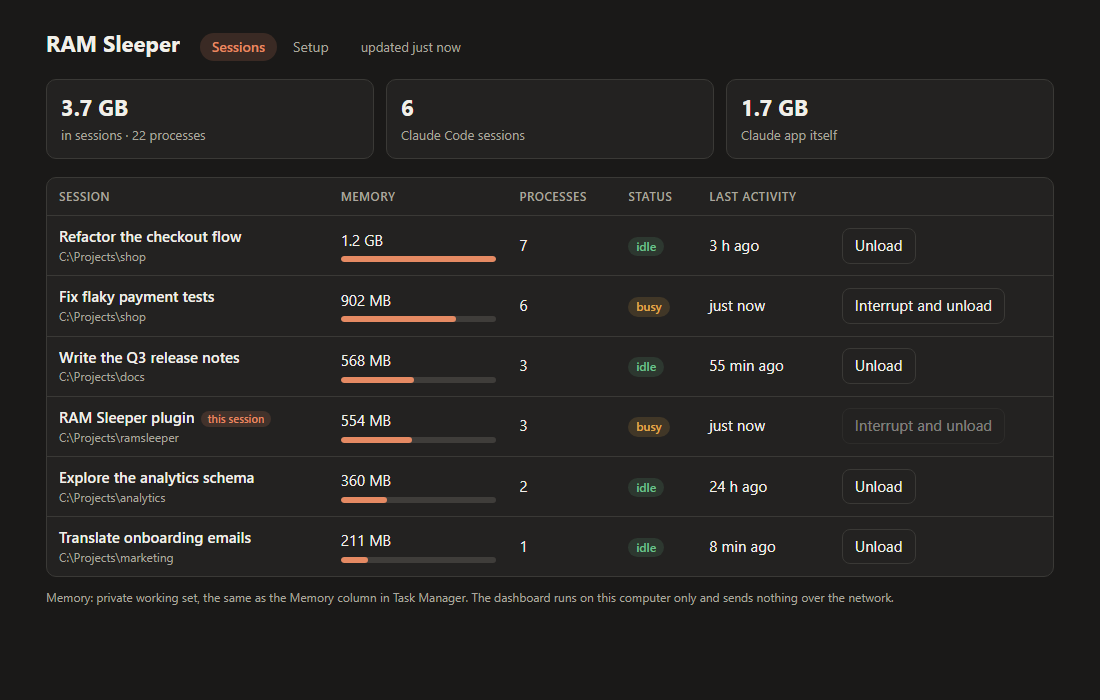
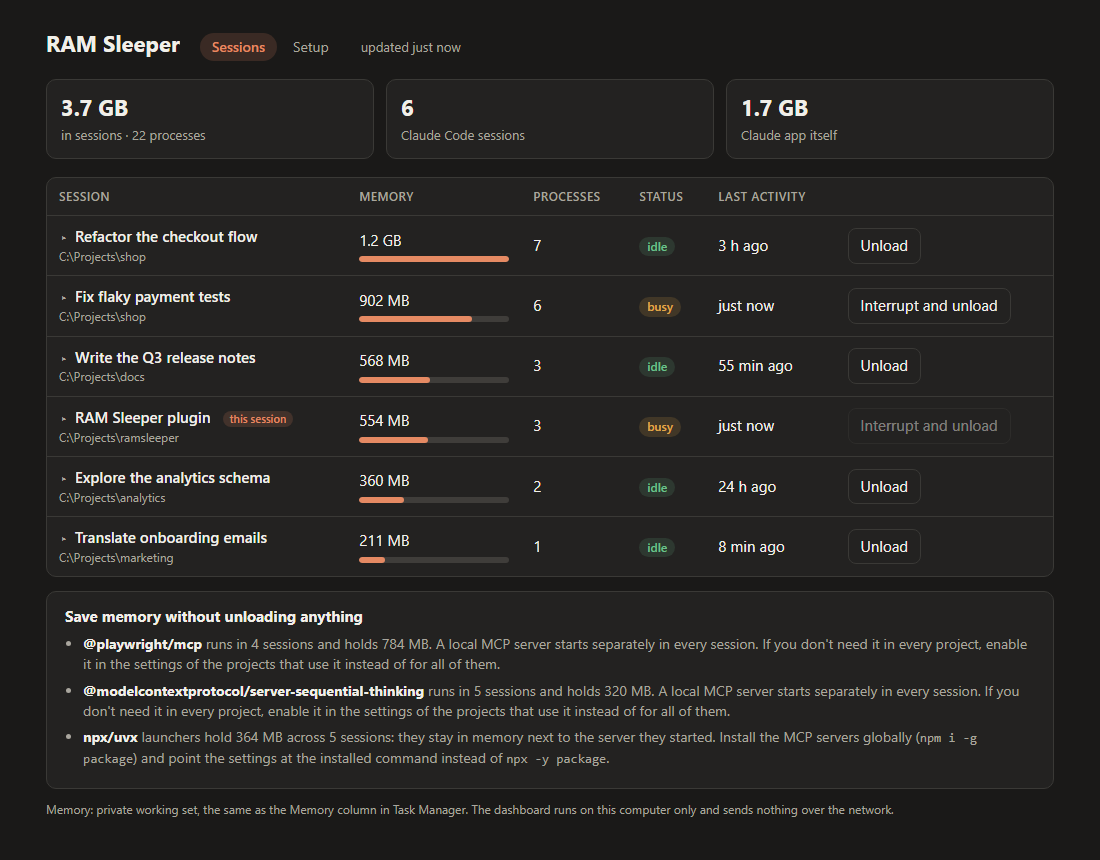
Site: new screenshots, session breakdown section, MCP-per-session FAQ

diff --git a/index.html b/index.html
@@ -15,7 +15,7 @@
 <meta property="og:url" content="https://kejid.github.io/ramsleeper/">
 <meta property="og:image" content="https://kejid.github.io/ramsleeper/img/dashboard-dark.png">
 <meta property="og:image:width" content="1100">
-<meta property="og:image:height" content="700">
+<meta property="og:image:height" content="860">
 <meta property="og:image:alt" content="RAM Sleeper dashboard listing Claude Code sessions with their memory use">
 <meta name="twitter:card" content="summary_large_image">
 <script type="application/ld+json">
@@ -45,6 +45,8 @@
       "acceptedAnswer": { "@type": "Answer", "text": "Every Claude Code session is its own tree of processes: the claude process plus the MCP servers, shells, browsers and dev servers it started. One session often holds 0.3 to 1.3 GB across a dozen or more processes, and idle sessions keep that memory. With several sessions open, for example in the Claude desktop app, it adds up to many gigabytes." } },
     { "@type": "Question", "name": "How do I see how much RAM each Claude Code session uses?",
       "acceptedAnswer": { "@type": "Answer", "text": "Install RAM Sleeper and run /ramsleeper:sessions. It lists every running session with the memory of its whole process tree, its process count, whether it is busy or idle, and when it was last active." } },
+    { "@type": "Question", "name": "Does every Claude Code session start its own MCP servers?",
+      "acceptedAnswer": { "@type": "Answer", "text": "Yes, for local (stdio) MCP servers. Each session starts its own copy of every server enabled for it, so five sessions with a Playwright MCP server run five of them. If a server is needed in only some projects, enabling it in those projects' settings instead of for all projects saves that memory in every other session." } },
     { "@type": "Question", "name": "Do I lose the conversation when a session is unloaded?",
       "acceptedAnswer": { "@type": "Answer", "text": "No. Unloading stops the session's processes only. The transcript stays on disk, and when you open the session and send a message it loads back into memory with the same conversation." } },
     { "@type": "Question", "name": "Does RAM Sleeper fix the Claude Code memory leak?",
@@ -142,7 +144,7 @@
         <span class="note">Free, open source (MIT). Sends nothing over the network.</span>
       </div>
       <div class="shot">
-        <img src="img/dashboard-dark.png" width="1100" height="700" alt="RAM Sleeper dashboard listing six Claude Code sessions with memory bars, process counts, busy or idle status, and Unload buttons">
+        <img src="img/dashboard-dark.png" width="1100" height="860" alt="RAM Sleeper dashboard listing six Claude Code sessions with memory bars, process counts, busy or idle status, Unload buttons, and tips for saving memory">
       </div>
     </section>
 
@@ -161,9 +163,19 @@
       <h2>What RAM Sleeper does</h2>
       <div class="grid">
         <div class="card"><h3>Memory per session</h3><p>Each session's figure covers its whole process tree, with its title, status, and last activity. The desktop app's own share is listed separately.</p></div>
+        <div class="card"><h3>What each session is made of</h3><p>Expand a session to see the <code>claude</code> process and every MCP server or dev server it started, each with its memory.</p></div>
+        <div class="card"><h3>Tips that need no unloading</h3><p>It points out an MCP server that runs in many sessions and the memory held by <code>npx</code> and <code>uvx</code> launchers.</p></div>
         <div class="card"><h3>Unload without losing anything</h3><p>The session is asked to exit on its own, so the desktop app does not report a crash. The transcript stays on disk and the session resumes on your next message.</p></div>
         <div class="card"><h3>Always confirms first</h3><p>You see every process that will stop before anything stops. A dev server or database started from the session is called out separately.</p></div>
         <div class="card"><h3>Stuck sessions too</h3><p>A busy session can be interrupted and unloaded after a separate warning. Everything before the running turn is kept.</p></div>
+      </div>
+    </section>
+
+    <section id="inside">
+      <h2>See what is inside a session</h2>
+      <p class="sub">A local MCP server starts separately in every session, so a server you enabled for all projects costs its memory once per open session. And when a server is started with <code>npx -y package</code>, the launcher stays in memory next to it, about 60 MB each time. RAM Sleeper shows both, per session and in total.</p>
+      <div class="shot" style="margin-top:22px">
+        <img src="img/breakdown-dark.png" width="1100" height="1060" loading="lazy" alt="Dashboard with one session expanded into the claude process, a Playwright MCP server, a Vite dev server and other MCP servers, with a note about memory held by npx launchers and tips below the list">
       </div>
     </section>
 
@@ -175,11 +187,11 @@
           <figcaption><strong>In the chat.</strong> Run <code>/ramsleeper:sessions</code>, or ask "which session uses the most memory?"</figcaption>
         </figure>
         <figure>
-          <img src="img/tray-popup.png" width="640" height="551" loading="lazy" alt="Windows tray popup with the session list, and the tray icon in green, amber, and red">
+          <img src="img/tray-popup.png" width="640" height="812" loading="lazy" alt="Windows tray popup with the session list, one session expanded into its MCP servers, and the tray icon in green, amber, and red">
           <figcaption><strong>Windows tray.</strong> The number is how many sessions are idle. The color is how much of your RAM all sessions hold.</figcaption>
         </figure>
         <figure>
-          <img src="img/unload-confirm-dark.png" width="1100" height="760" loading="lazy" alt="Unload confirmation listing the processes that will stop, with a Vite dev server highlighted">
+          <img src="img/unload-confirm-dark.png" width="1100" height="860" loading="lazy" alt="Unload confirmation listing the processes that will stop, with a Vite dev server highlighted">
           <figcaption><strong>Local dashboard.</strong> <code>/ramsleeper:dashboard</code> opens a live view with a confirmation before each unload.</figcaption>
         </figure>
         <figure>
@@ -224,6 +236,7 @@ claude plugin install ramsleeper@ramsleeper</code></pre>
       <h2>Questions</h2>
       <details><summary>Why does Claude Code use so much memory?</summary><p>Every session is its own tree of processes: the <code>claude</code> process plus the MCP servers, shells, browsers, and dev servers it started. One session often holds 0.3 to 1.3 GB across a dozen or more processes, and idle sessions keep that memory. With several sessions open, for example in the Claude desktop app, it adds up to many gigabytes.</p></details>
       <details><summary>How do I see how much RAM each Claude Code session uses?</summary><p>Install RAM Sleeper and run <code>/ramsleeper:sessions</code>. It lists every running session with the memory of its whole process tree, its process count, whether it is busy or idle, and when it was last active.</p></details>
+      <details><summary>Does every Claude Code session start its own MCP servers?</summary><p>Yes, for local (stdio) MCP servers. Each session starts its own copy of every server enabled for it, so five sessions with a Playwright MCP server run five of them. If a server is needed in only some projects, enabling it in those projects' settings instead of for all projects saves that memory in every other session.</p></details>
       <details><summary>Do I lose the conversation when a session is unloaded?</summary><p>No. Unloading stops the session's processes only. The transcript stays on disk, and when you open the session and send a message it loads back into memory with the same conversation.</p></details>
       <details><summary>Does RAM Sleeper fix the Claude Code memory leak?</summary><p>No. It does not change Claude Code. It shows which sessions hold the memory and frees it by unloading the ones you are not using, which you can resume later.</p></details>
       <details><summary>What happens to a dev server I started from a session?</summary><p>It stops with the session, because it is one of its child processes. The confirmation lists such processes separately, so it is not a surprise.</p></details>
